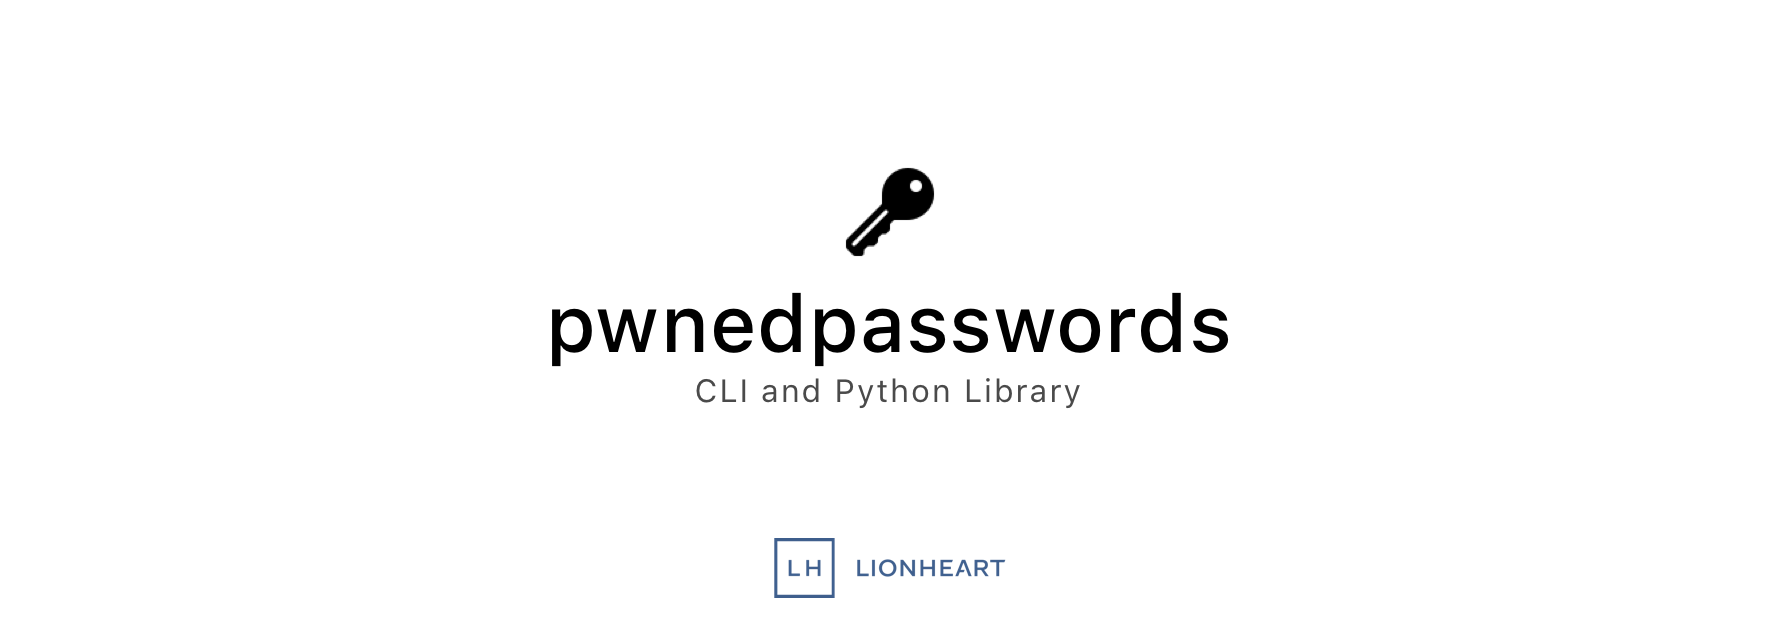
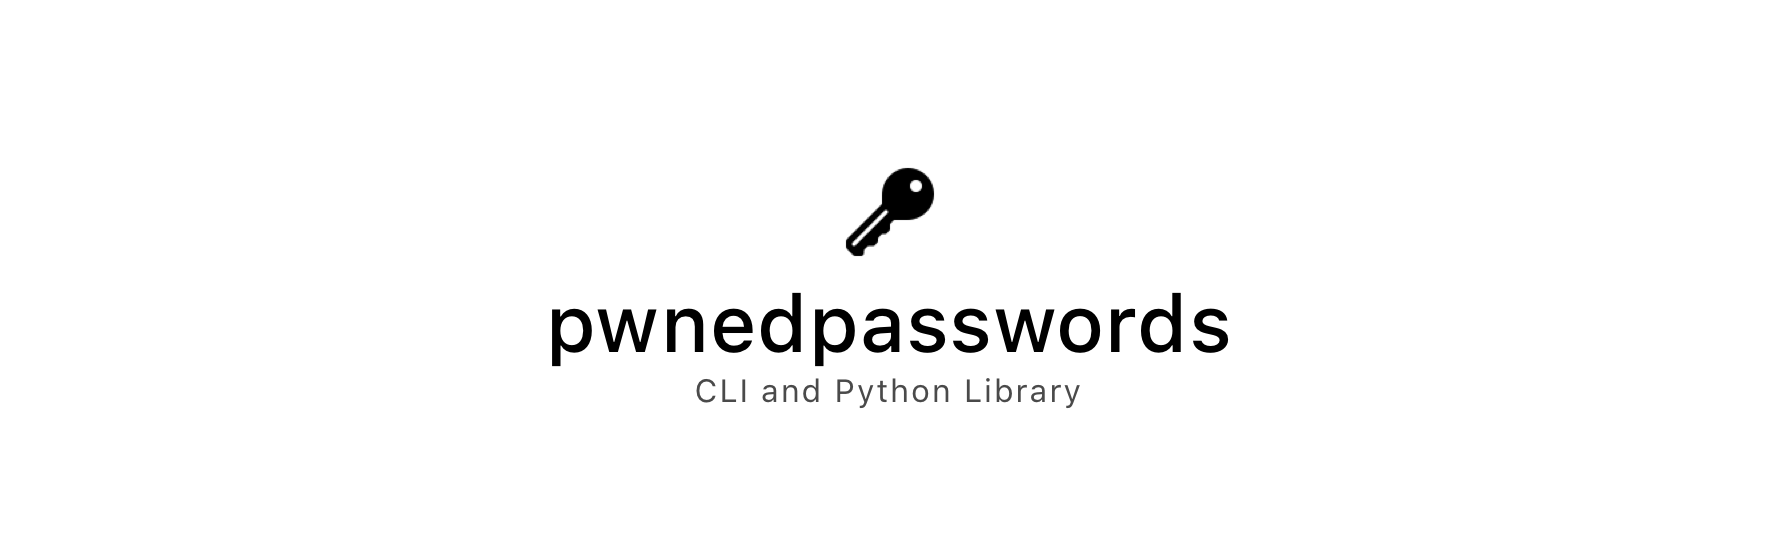
update

Changed region(s): [[0.3097, 0.2677, 0.7123, 0.684], [0.4336, 0.8625, 0.5574, 0.9814], [0.3716, 0.7138, 0.6194, 0.7435]]

diff --git a/README.md b/README.md
@@ -3,6 +3,7 @@
 </p> -->
 
 ![](meta/repo-banner.png)
+![](meta/repo-banner-bottom.png)
 
 ### Python Library and CLI for the Pwned Password v2 API.
 
